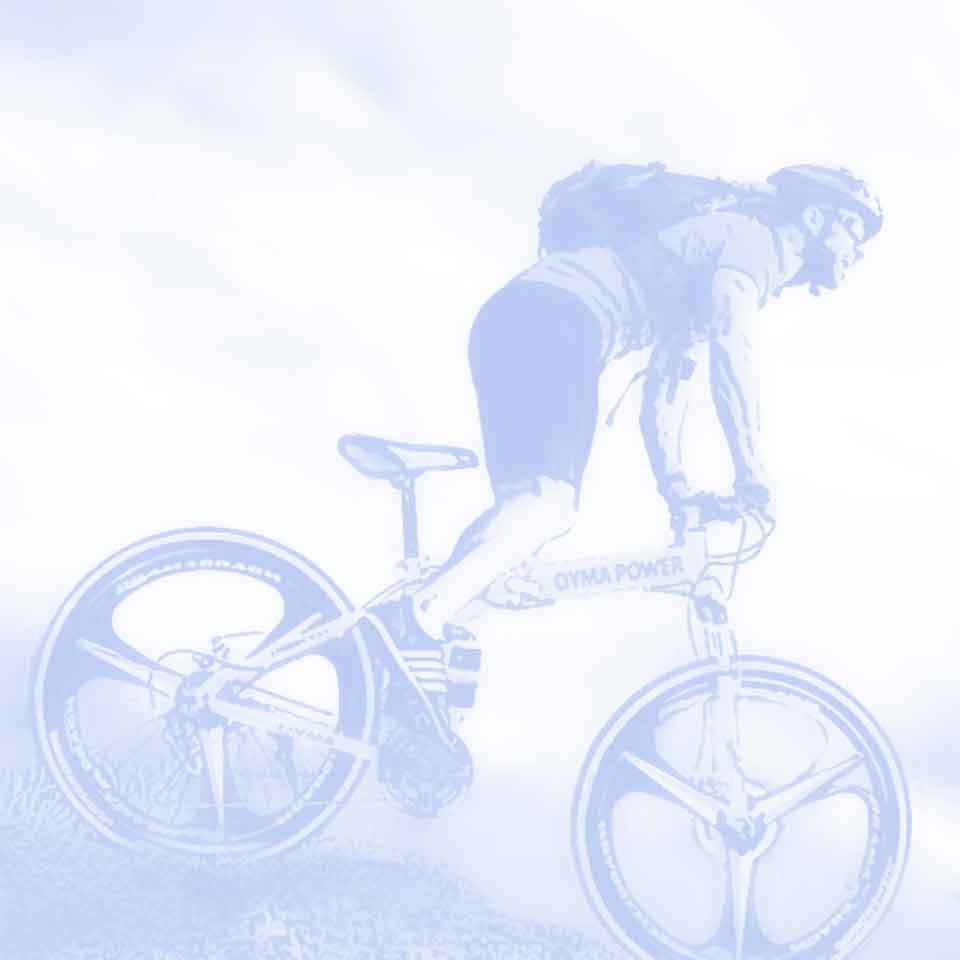
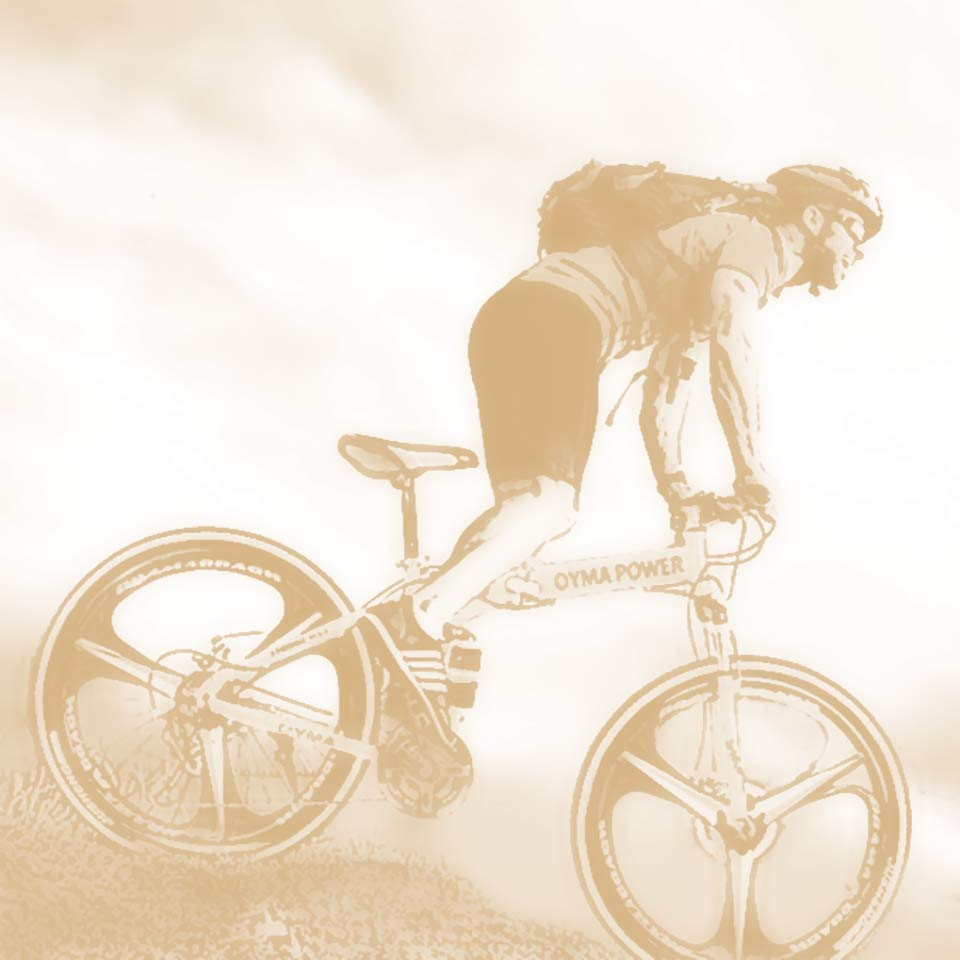
Added topic, images, text and adjusted styles

diff --git a/css/main.css b/css/main.css
@@ -1,9 +1,3 @@
-/* 
-    960(a+b), 593.313(a), 366.6874(b)
-    768(a+b), 474.65(a), 293.35(b)
-    320(a+b), 197.771(a), 122.2291(b)
-    450(a+b), 278.1153(a), 171.8847(b)
-*/
 *, *:before, *:after, html {
   box-sizing: border-box;
 }
@@ -18,13 +12,23 @@ h1, h2 {
 }
 
 :root {
-  --interface-background-color: #111;
-  --interface-background-hover-color: rgb(214, 21, 37);
-  --light-text-color: #fff;
+  --dark-blue: #00042c;
+  --med-blue: #0b1c50; 
+  --light-blue: #6678b6;
+  --bronze: #a68e72;
+  --dark-bronze: #574633;
+  --gray: #a8b0c7;
+  --gray-hsla: hsla(225, 22%, 72%, 30%);
+  --white: #fffff7;
+  --black: #000216;
+
+  --box-shadow: 0 5px 5px 1px rgba(0,0,0,.2);
 
   --hide-visibility: hidden;
   --hide-opacity: 0;
   --hide-max-height: 0px;
+
+  --hgroup-min-height: 55vh;
 
   --main-nav-label-display: block;
   --nav-items-display: block;
@@ -46,35 +50,104 @@ h1, h2 {
   }
 }
 
+html {
+  background: var(--white);
+  color: var(--black);
+}
+
+a {
+  color: var(--med-blue);
+}
+
+#header {
+  background: var(--black);
+}
+
+#hgroup {
+  text-align: center;
+}
+
 #hgroup, figcaption, #footer section, #copyright {
   padding: 1em;
 }
 
 .more {
-  margin: 1em 0 2em auto;
+  display: block;
+  text-align: right;
 }
 
 #hgroup h1 {
-  margin-bottom: .15em;
+  margin-bottom: 0;
+  font-size: 4.3em;
+  letter-spacing: 8px;
 }
 
 #hgroup h2 {
+  color: var(--gray);
   font-size: 1.25em;
   margin-top: 0;
 }
 
 #hgroup a {
+  color: var(--bronze);
   text-decoration: none;
 }
 
+#hero-1 {
+  background: url('../img/bg-bike-oyma_power-with_rider.jpg') no-repeat 65% center;
+  background-size: cover;
+  min-height: 72vh;
+}
+
+.hero {
+  display: flex;
+}
+
+.hero img {
+  width: 100%;
+  height: auto;
+}
+
+figure img {
+  display: flex;
+  margin: auto;
+}
+
 figcaption h2 {
+  color: var(--dark-bronze);
   margin: 0;
+}
+
+/* #services */
+#services {
+  display: flex;
+  flex-wrap: wrap;
+  justify-content: space-evenly;
+  margin: 3em auto;
+}
+
+#services figure {
+  background: white;
+  max-width: 300px;
+  padding: .25em;
+  margin: 2em 5px;
+  border: 1px solid var(--gray-hsla);
+  border-radius: 5px;
+}
+
+#services figure:hover {
+  box-shadow: var(--box-shadow);
+}
+
+/* #intro */
+#intro {
+  padding-bottom: 5em;
 }
 
 /* #footer */
 #footer, #copyright {
-  background: var(--interface-background-color);
-  color: var(--light-text-color);
+  background: var(--black);
+  color: var(--gray);
 }
 
 #footer ul {
@@ -86,10 +159,14 @@ figcaption h2 {
   line-height: 2;
 }
 
+#footer a, #copyright a {
+  color: var(--white);
+}
+
 /*     Main navigation     */
 #main-nav {
-  background: var(--interface-background-color);
-  color: var(--light-text-color);
+  background: var(--dark-blue);
+  color: var(--white);
   line-height: 2;
 }
 
@@ -100,6 +177,7 @@ figcaption h2 {
   font-size: 2.5em;
   text-align: center;
   cursor: pointer;
+  color: var(--gray);
 }
 
 /* Hide the checkbox */
@@ -124,12 +202,12 @@ figcaption h2 {
   display: block;
   padding: var(--nav-items-a-padding);
   text-decoration: none;
-  color: var(--light-text-color);
+  color: var(--white);
   text-align: center;
 }
 
 #nav-items a:hover, #main-nav label:hover {
-  background: var(--interface-background-hover-color);
+  background: var(--dark-bronze);
 }
 
 .navItems { 

diff --git a/index.html b/index.html
@@ -41,8 +41,8 @@
 
   <header id="header">
     <div id="hgroup">
-      <h1><a href="#">Responsive</a></h1>
-      <h2>New Responsive Version of the 960-Fixed-Width Website</h2>
+      <h1><a href="#">OYMA</a></h1>
+      <h2>Folding Mountain Bikes</h2>
     </div>
     <nav id="main-nav" aria-label="Main Navigation">
       <label for="hamburger" role="button" id="mainNavButton">&#9776;</label>
@@ -60,8 +60,8 @@
   </header>
 
   <!-- Hero -->
-  <section class="hero">
-    <img src="img/bg-bike-oyma_power-with_rider.jpg" width="960" height="960" alt="">
+  <section id="hero-1" class="hero">
+    <!-- img src="img/bg-bike-oyma_power-with_rider.jpg" width="960" height="960" alt="" -->
   </section>
 
   <!-- Main content -->
@@ -74,8 +74,8 @@
         <figure>
           <img src="img/bike-oyma_power.jpg" width="320" height="197" alt="">
           <figcaption>
-            <h2>Indonectetus facilis</h2>
-            <p>Nullamlacus dui ipsum conseque loborttis non euisque morbi penas dapibulum orna.</p>
+            <h2>Oyma Folding Bike</h2>
+            <p>26in, 21 Speed Full Suspension (Sky Blue) MTB $215.90</p>
             <footer class="more">
               <a href="#">Read More &raquo;</a>
             </footer>
@@ -87,8 +87,8 @@
         <figure>
           <img src="img/bike-oyma_power-black.jpg" width="320" height="197" alt="">
           <figcaption>
-            <h2>Indonectetus facilis</h2>
-            <p>Nullamlacus dui ipsum conseque loborttis non euisque morbi penas dapibulum orna.</p>
+            <h2>Oyma Folding Bike</h2>
+            <p>26in, 21 Speed, Full Suspension (Black) MTB $215.90</p>
             <footer class="more">
               <a href="#">Read More &raquo;</a>
             </footer>
@@ -100,8 +100,8 @@
         <figure>
           <img src="img/bike-oyma_power-red.jpg" width="320" height="197" alt="">
           <figcaption>
-            <h2>Indonectetus facilis</h2>
-            <p>Nullamlacus dui ipsum conseque loborttis non euisque morbi penas dapibulum orna.</p>
+            <h2>Oyma Folding Bike</h2>
+            <p>26in, Dual Disc Brake, 21 Speed (Red) MTB $235.99</p>
             <footer class="more">
               <a href="#">Read More &raquo;</a>
             </footer>
